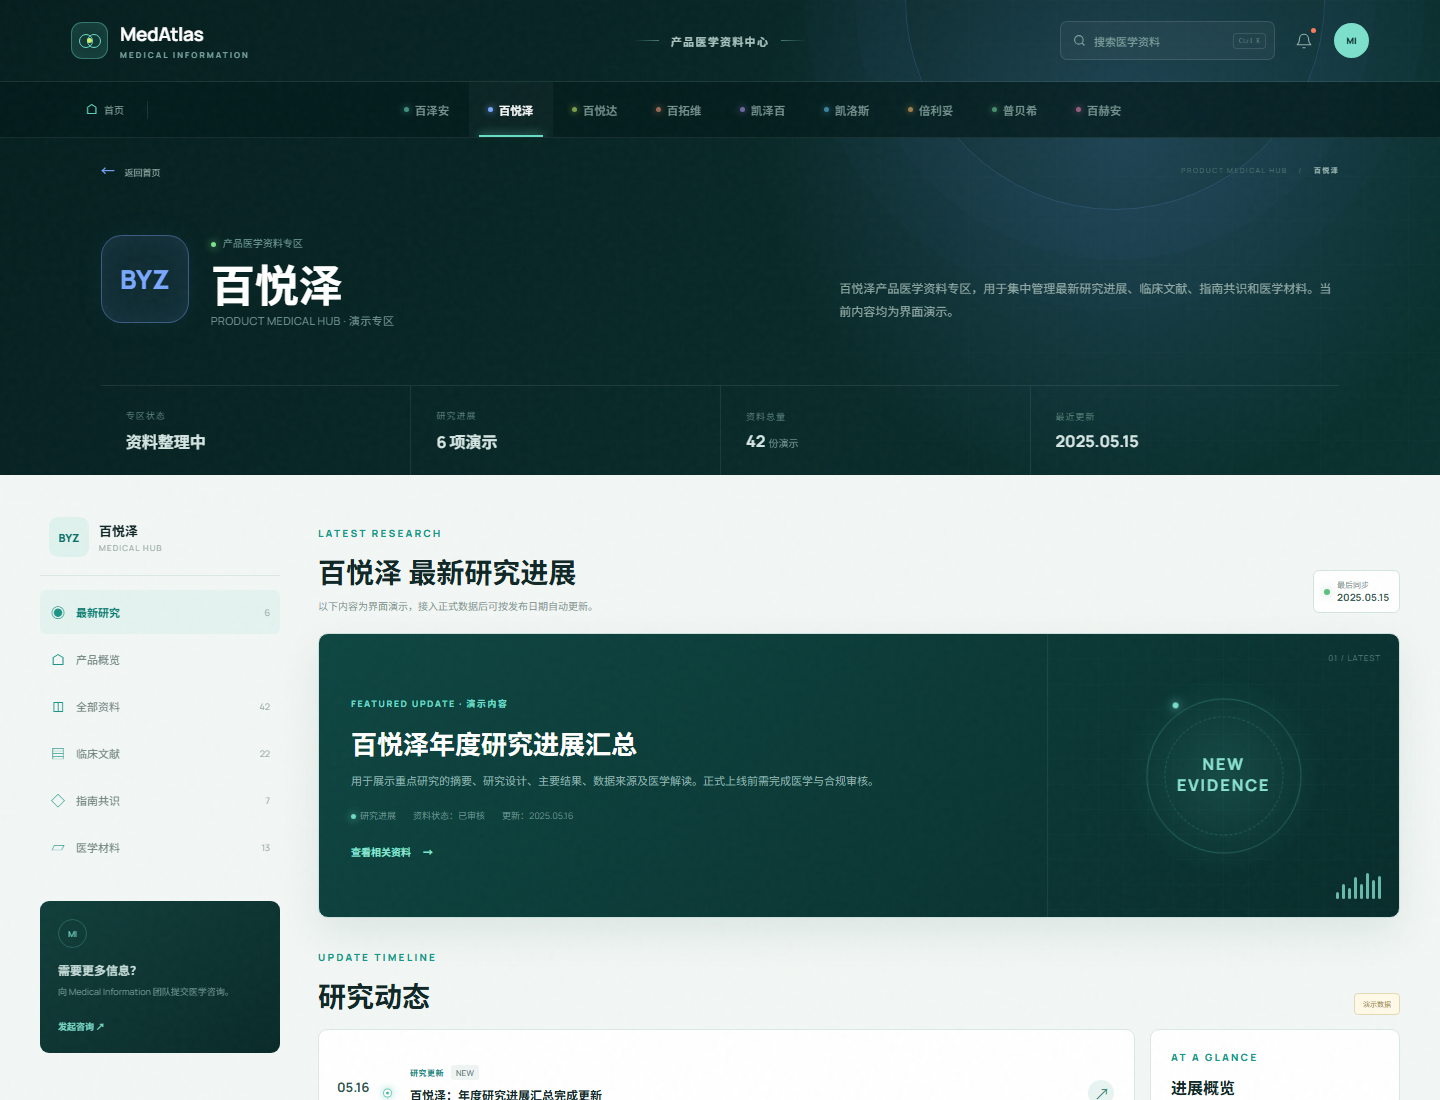
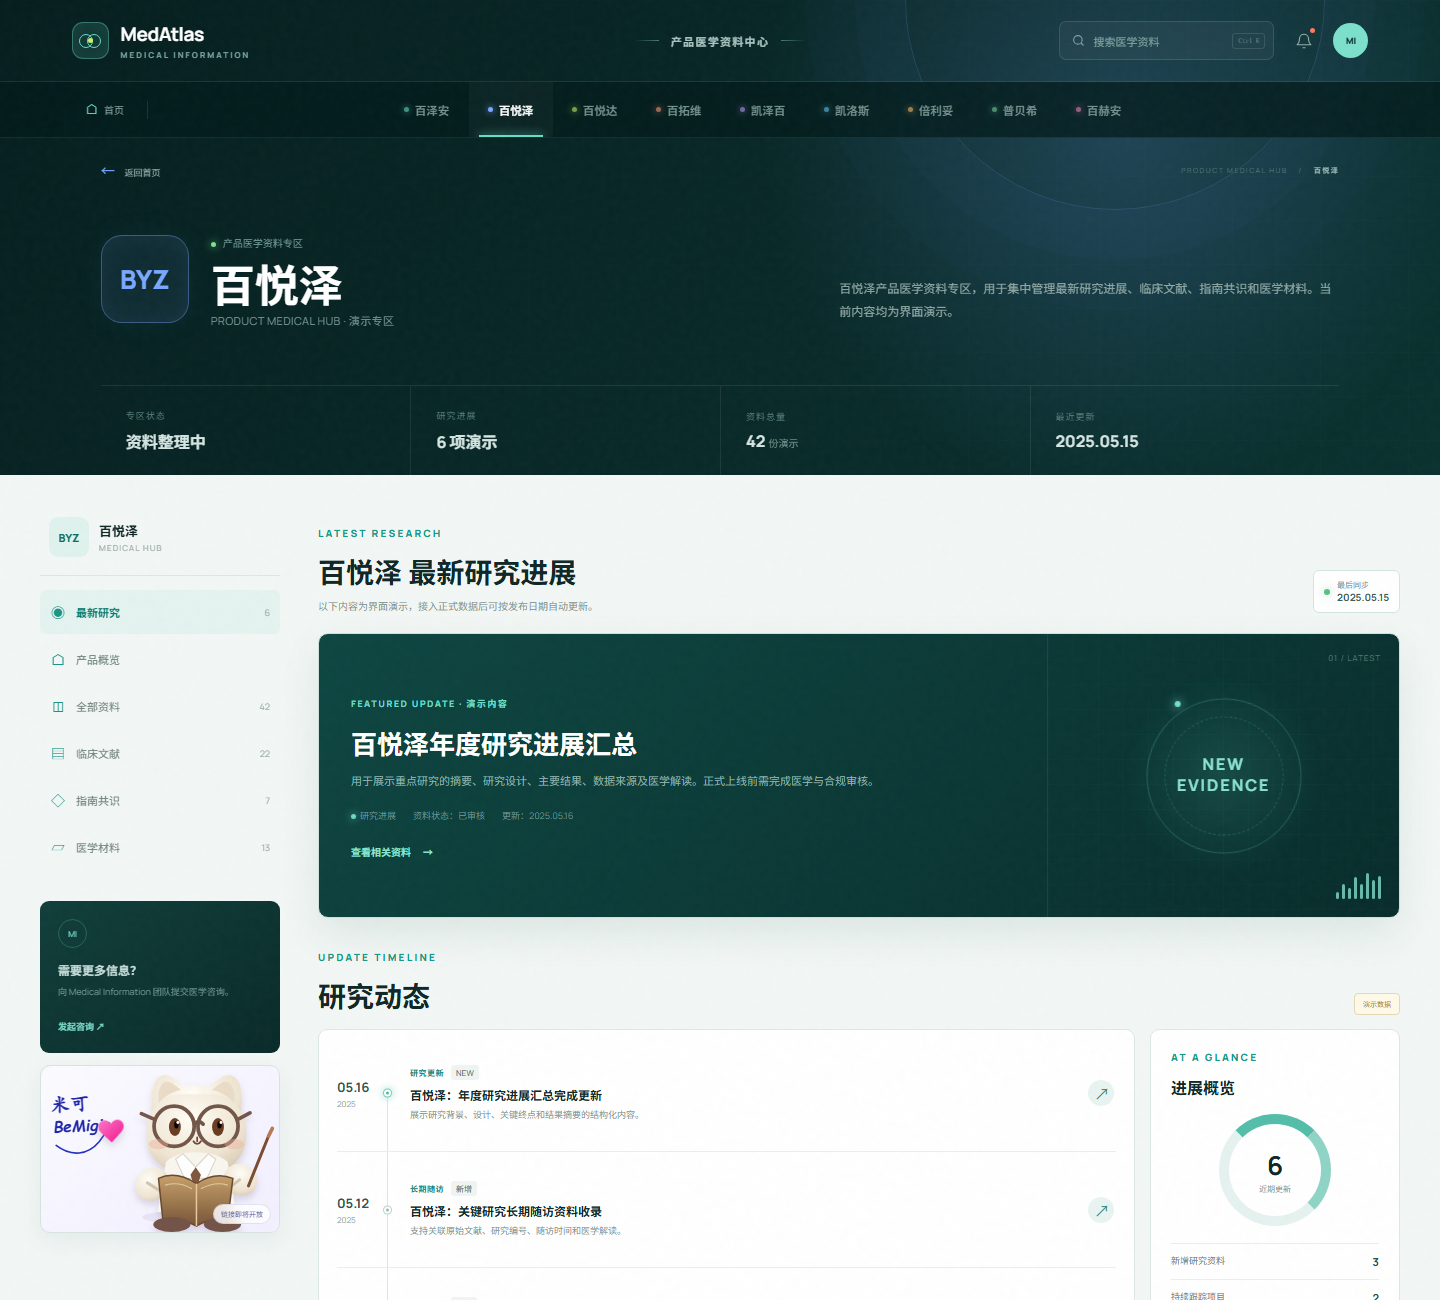
Add medical inquiry email and BeMigic shortcut

diff --git a/styles.css b/styles.css
@@ -96,7 +96,7 @@ button, a { -webkit-tap-highlight-color: transparent; }
 .detail-metrics { position: absolute; z-index: 2; right: 7vw; bottom: 0; left: 7vw; display: grid; grid-template-columns: repeat(4,1fr); height: 90px; border-top: 1px solid rgba(255,255,255,.09); }.detail-metrics div { display: flex; justify-content: center; flex-direction: column; padding-left: 25px; }.detail-metrics div + div { border-left: 1px solid rgba(255,255,255,.08); }.detail-metrics span { margin-bottom: 7px; color: #587f7a; font-size: 7px; letter-spacing: 1px; }.detail-metrics strong { color: #d5e6e3; font-size: 13px; }.detail-metrics strong small { color: #769590; font-size: 8px; font-weight: 400; }
 .detail-shell { display: grid; grid-template-columns: 215px minmax(0,1fr); gap: 30px; max-width: 1280px; min-height: 650px; margin: 0 auto; padding: 35px 20px 80px; }.detail-sidebar { align-self: start; position: sticky; top: 20px; }.sidebar-product { display: flex; align-items: center; gap: 10px; padding: 0 9px 18px; border-bottom: 1px solid var(--line); }.sidebar-product > span { display: grid; width: 34px; height: 34px; place-items: center; border-radius: 9px; color: #0b6f66; background: #dff2ed; font-size: 9px; font-weight: 800; }.sidebar-product strong, .sidebar-product small { display: block; }.sidebar-product strong { font-size: 10px; }.sidebar-product small { margin-top: 2px; color: #9aa9a6; font-size: 6px; letter-spacing: 1.2px; }
 .detail-sidebar nav { display: flex; flex-direction: column; gap: 3px; padding: 14px 0; }.detail-sidebar nav button { display: flex; align-items: center; width: 100%; height: 39px; padding: 0 10px; gap: 10px; border: 0; border-radius: 6px; color: #71837f; background: transparent; text-align: left; font-size: 9px; }.detail-sidebar nav button:hover, .detail-sidebar nav button.active { color: #087b70; background: #e4f3ef; font-weight: 700; }.detail-sidebar nav i { width: 16px; color: #1b9486; font-style: normal; font-size: 14px; text-align: center; }.detail-sidebar nav button span { margin-left: auto; color: #9eaeaa; font-size: 7px; font-weight: 400; }
-.medical-contact { margin-top: 18px; padding: 18px; border-radius: 9px; color: #c6ddda; background: linear-gradient(145deg,#113e3a,#092a29); }.medical-contact > span { display: grid; width: 29px; height: 29px; margin-bottom: 13px; place-items: center; border: 1px solid rgba(102,222,197,.25); border-radius: 50%; color: #72d7c4; font-size: 8px; }.medical-contact strong { display: block; font-size: 10px; }.medical-contact p { margin: 6px 0 14px; color: #6f9590; font-size: 8px; line-height: 1.6; }.medical-contact button { padding: 0; border: 0; color: #77d8c6; background: none; font-size: 8px; font-weight: 700; }
+.medical-contact { margin-top: 18px; padding: 18px; border-radius: 9px; color: #c6ddda; background: linear-gradient(145deg,#113e3a,#092a29); }.medical-contact > span { display: grid; width: 29px; height: 29px; margin-bottom: 13px; place-items: center; border: 1px solid rgba(102,222,197,.25); border-radius: 50%; color: #72d7c4; font-size: 8px; }.medical-contact strong { display: block; font-size: 10px; }.medical-contact p { margin: 6px 0 14px; color: #6f9590; font-size: 8px; line-height: 1.6; }.medical-contact a { padding: 0; border: 0; color: #77d8c6; background: none; font-size: 8px; font-weight: 700; }
 .detail-main { min-width: 0; }.overview-title, .latest-heading, .resource-page-title { display: flex; align-items: end; justify-content: space-between; margin: 9px 0 18px; }.overview-title h2, .latest-heading h2, .resource-page-title h2 { margin: 0; font-family: "Noto Sans SC",sans-serif; font-size: 22px; }.verified-label { padding: 6px 9px; border: 1px solid #c8e2dc; border-radius: 4px; color: #238f81; background: #eef9f6; font-size: 7px; }
 .overview-grid { display: grid; grid-template-columns: 1.15fr 1fr; gap: 12px; }.evidence-card,.key-info-card { min-height: 300px; padding: 20px; border: 1px solid var(--line); border-radius: 9px; background: white; }.card-top { display: flex; justify-content: space-between; color: #25443f; font-size: 10px; font-weight: 700; }.card-top small { color: #9aa9a6; font-size: 7px; font-weight: 400; }
 .evidence-chart { position: relative; width: 230px; height: 230px; margin: 8px auto 0; }.chart-center { position: absolute; z-index: 2; inset: 50% auto auto 50%; display: grid; width: 75px; height: 75px; place-items: center; align-content: center; translate: -50% -50%; border-radius: 50%; color: white; background: #0a5b54; box-shadow: 0 0 35px rgba(12,143,130,.22); }.chart-center strong { font-size: 20px; }.chart-center span { color: #82bbb2; font-size: 6px; }.chart-ring { position: absolute; border: 1px solid #d8e7e3; border-radius: 50%; }.ring-1 { inset: 42px; }.ring-2 { inset: 18px; border-style: dashed; }.ring-3 { inset: 0; opacity: .55; }.chart-node { position: absolute; display: flex; align-items: center; gap: 5px; padding: 5px 7px; border: 1px solid #d9e7e3; border-radius: 4px; color: #69807b; background: white; box-shadow: 0 4px 12px rgba(22,65,60,.06); font-size: 7px; }.chart-node i { width: 5px; height: 5px; border-radius: 50%; background: #49b8a5; }.node-1 { top: 28px; left: -4px; }.node-2 { top: 17px; right: 0; }.node-3 { bottom: 25px; left: -3px; }.node-4 { right: -7px; bottom: 33px; }
@@ -126,7 +126,7 @@ button, a { -webkit-tap-highlight-color: transparent; }
   .feature-update { grid-template-columns: 1fr; }.feature-visual { min-height: 170px; }.feature-copy { padding: 24px; }.update-row { grid-template-columns: 42px 38px 1fr 15px; padding: 11px; }.row-copy strong { font-size: 9px; }
   .library-section { grid-template-columns: 1fr; padding: 70px 20px; }.library-stack { margin-top: 10px; }
   .detail-hero { min-height: 480px; padding: 100px 20px 0; }.detail-breadcrumb { display: none; }.detail-hero-content { margin-top: 34px; }.detail-identity { gap: 14px; }.detail-code { width: 62px; height: 62px; border-radius: 16px; }.detail-identity h1 { font-size: 28px; }.detail-metrics { right: 20px; left: 20px; grid-template-columns: 1fr 1fr; height: 145px; }.detail-metrics div:nth-child(3) { border-left: 0; border-top: 1px solid rgba(255,255,255,.08); }.detail-metrics div:nth-child(4) { border-top: 1px solid rgba(255,255,255,.08); }
-  .detail-shell { display: block; padding: 24px 14px 60px; }.detail-sidebar { position: static; }.sidebar-product,.medical-contact { display: none; }.detail-sidebar nav { flex-direction: row; overflow-x: auto; padding: 0 0 17px; }.detail-sidebar nav button { width: auto; min-width: max-content; padding: 0 12px; }.detail-sidebar nav i,.detail-sidebar nav button span { display: none; }.overview-title { align-items: start; }.verified-label { display: none; }.overview-grid { grid-template-columns: 1fr; }.featured-resources { grid-template-columns: 1fr; }.resource-page-title { align-items: start; }.resource-filterbar { flex-wrap: wrap; }.resource-filterbar label { flex-basis: 100%; }.resource-filterbar select { flex: 1; height: 34px; }.detail-resource-card { grid-template-columns: 38px 1fr; }.resource-card-end { grid-column: 2; justify-content: space-between; }.detail-resource-copy p { line-height: 1.5; }.site-footer { grid-template-columns: 1fr; gap: 12px; text-align: center; }.footer-brand { justify-content: center; }.site-footer > span { text-align: center; }.quick-products { grid-template-columns: 1fr 1fr; }.search-modal { padding: 20px; }
+  .detail-shell { display: block; padding: 24px 14px 60px; }.detail-sidebar { position: static; }.sidebar-product,.medical-contact,.bemigic-card { display: none; }.detail-sidebar nav { flex-direction: row; overflow-x: auto; padding: 0 0 17px; }.detail-sidebar nav button { width: auto; min-width: max-content; padding: 0 12px; }.detail-sidebar nav i,.detail-sidebar nav button span { display: none; }.overview-title { align-items: start; }.verified-label { display: none; }.overview-grid { grid-template-columns: 1fr; }.featured-resources { grid-template-columns: 1fr; }.resource-page-title { align-items: start; }.resource-filterbar { flex-wrap: wrap; }.resource-filterbar label { flex-basis: 100%; }.resource-filterbar select { flex: 1; height: 34px; }.detail-resource-card { grid-template-columns: 38px 1fr; }.resource-card-end { grid-column: 2; justify-content: space-between; }.detail-resource-copy p { line-height: 1.5; }.site-footer { grid-template-columns: 1fr; gap: 12px; text-align: center; }.footer-brand { justify-content: center; }.site-footer > span { text-align: center; }.quick-products { grid-template-columns: 1fr 1fr; }.search-modal { padding: 20px; }
 }
 @media (prefers-reduced-motion: reduce) { *,*::before,*::after { scroll-behavior:auto!important; animation:none!important; transition:none!important; } }
 
@@ -243,7 +243,13 @@ button, a { -webkit-tap-highlight-color: transparent; }
 .sidebar-product strong { font-size: 13px; }.sidebar-product small { font-size: 8px; }
 .detail-sidebar nav button { height: 44px; font-size: 11px; }
 .detail-sidebar nav button span { font-size: 9px; }
-.medical-contact strong { font-size: 12px; }.medical-contact p,.medical-contact button { font-size: 9px; }
+.medical-contact strong { font-size: 12px; }.medical-contact p,.medical-contact a { font-size: 9px; }
+.medical-contact a { display: inline-flex; align-items: center; text-decoration: none; }
+.medical-contact a:hover { color: #b2f3e6; text-decoration: underline; text-underline-offset: 3px; }
+.bemigic-card { position: relative; margin-top: 12px; overflow: hidden; border: 1px solid #d8e3e1; border-radius: 10px; background: #f7f5ff; box-shadow: 0 8px 22px rgba(24,54,65,.06); cursor: default; transition: transform .25s ease, box-shadow .25s ease; }
+.bemigic-card:hover { transform: translateY(-2px); box-shadow: 0 12px 28px rgba(24,54,65,.1); }
+.bemigic-card img { display: block; width: 100%; height: auto; }
+.bemigic-card > span { position: absolute; right: 8px; bottom: 8px; padding: 4px 7px; border: 1px solid rgba(35,45,150,.12); border-radius: 10px; color: #62669d; background: rgba(255,255,255,.84); backdrop-filter: blur(6px); font-size: 7px; }
 .overline { font-size: 10px; }
 .research-heading h2,.research-section-title h2 { font-size: 28px; }
 .research-heading p { font-size: 10px; }

diff --git a/index.html b/index.html
@@ -117,7 +117,12 @@
             <button data-detail-tab="material"><i>▱</i>医学材料<span id="materialCount">15</span></button>
           </nav>
           <div class="medical-contact">
-            <span>MI</span><strong>需要更多信息？</strong><p>向 Medical Information 团队提交医学咨询。</p><button>发起咨询 ↗</button>
+            <span>MI</span><strong>需要更多信息？</strong><p>向 Medical Information 团队提交医学咨询。</p>
+            <a href="mailto:mbshmi@beigene.com?subject=MedAtlas%20医学信息咨询">发起咨询 ↗</a>
+          </div>
+          <div class="bemigic-card" role="img" aria-label="BeMigic，链接待配置" title="BeMigic · 链接待配置">
+            <img src="assets/bemigic-logo.svg" alt="米可 BeMigic">
+            <span>链接即将开放</span>
           </div>
         </aside>
 
